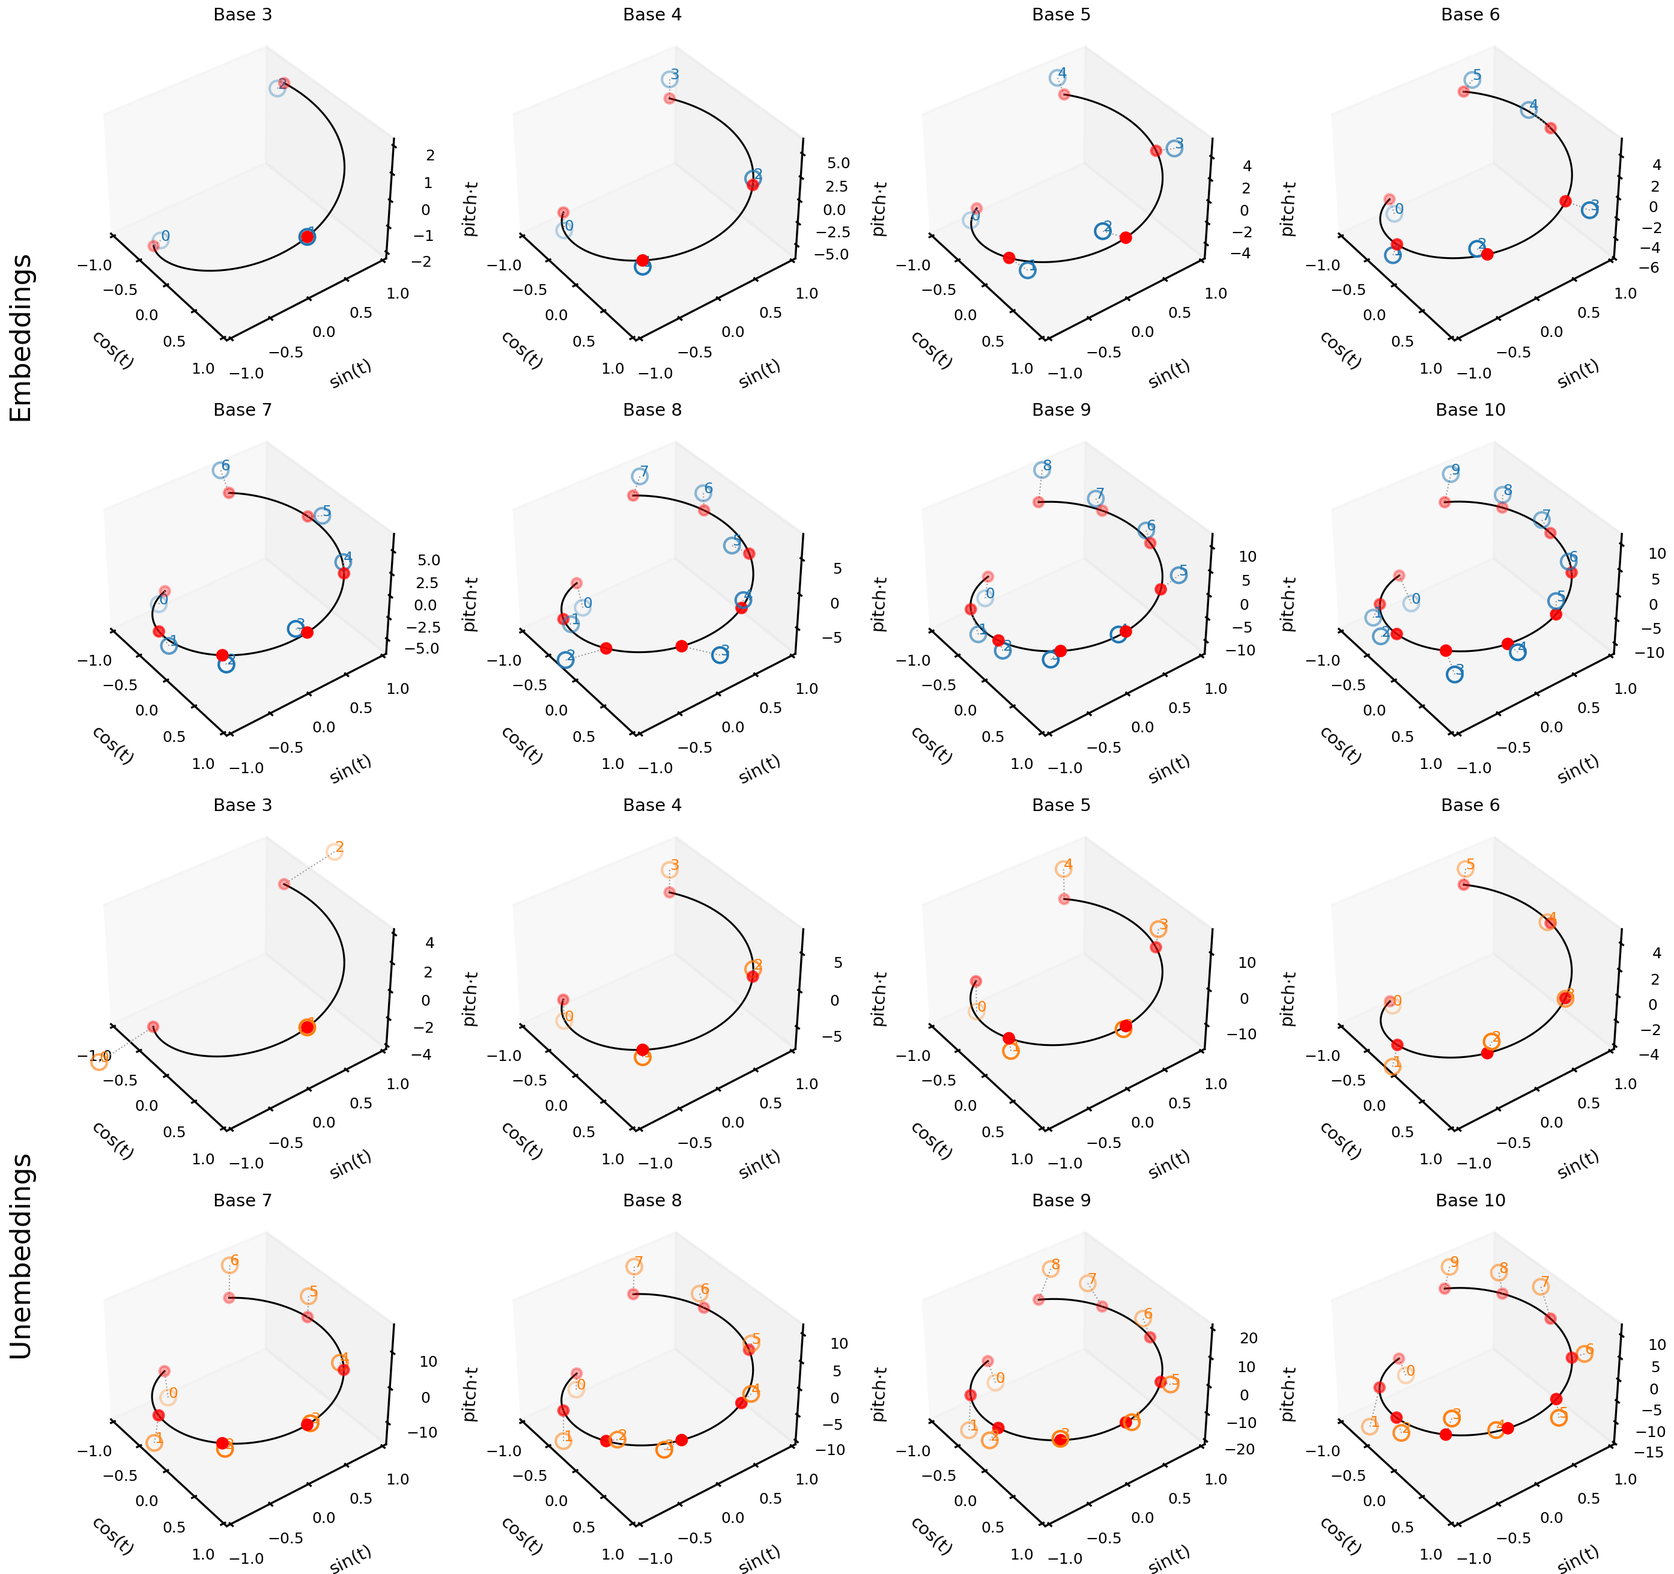
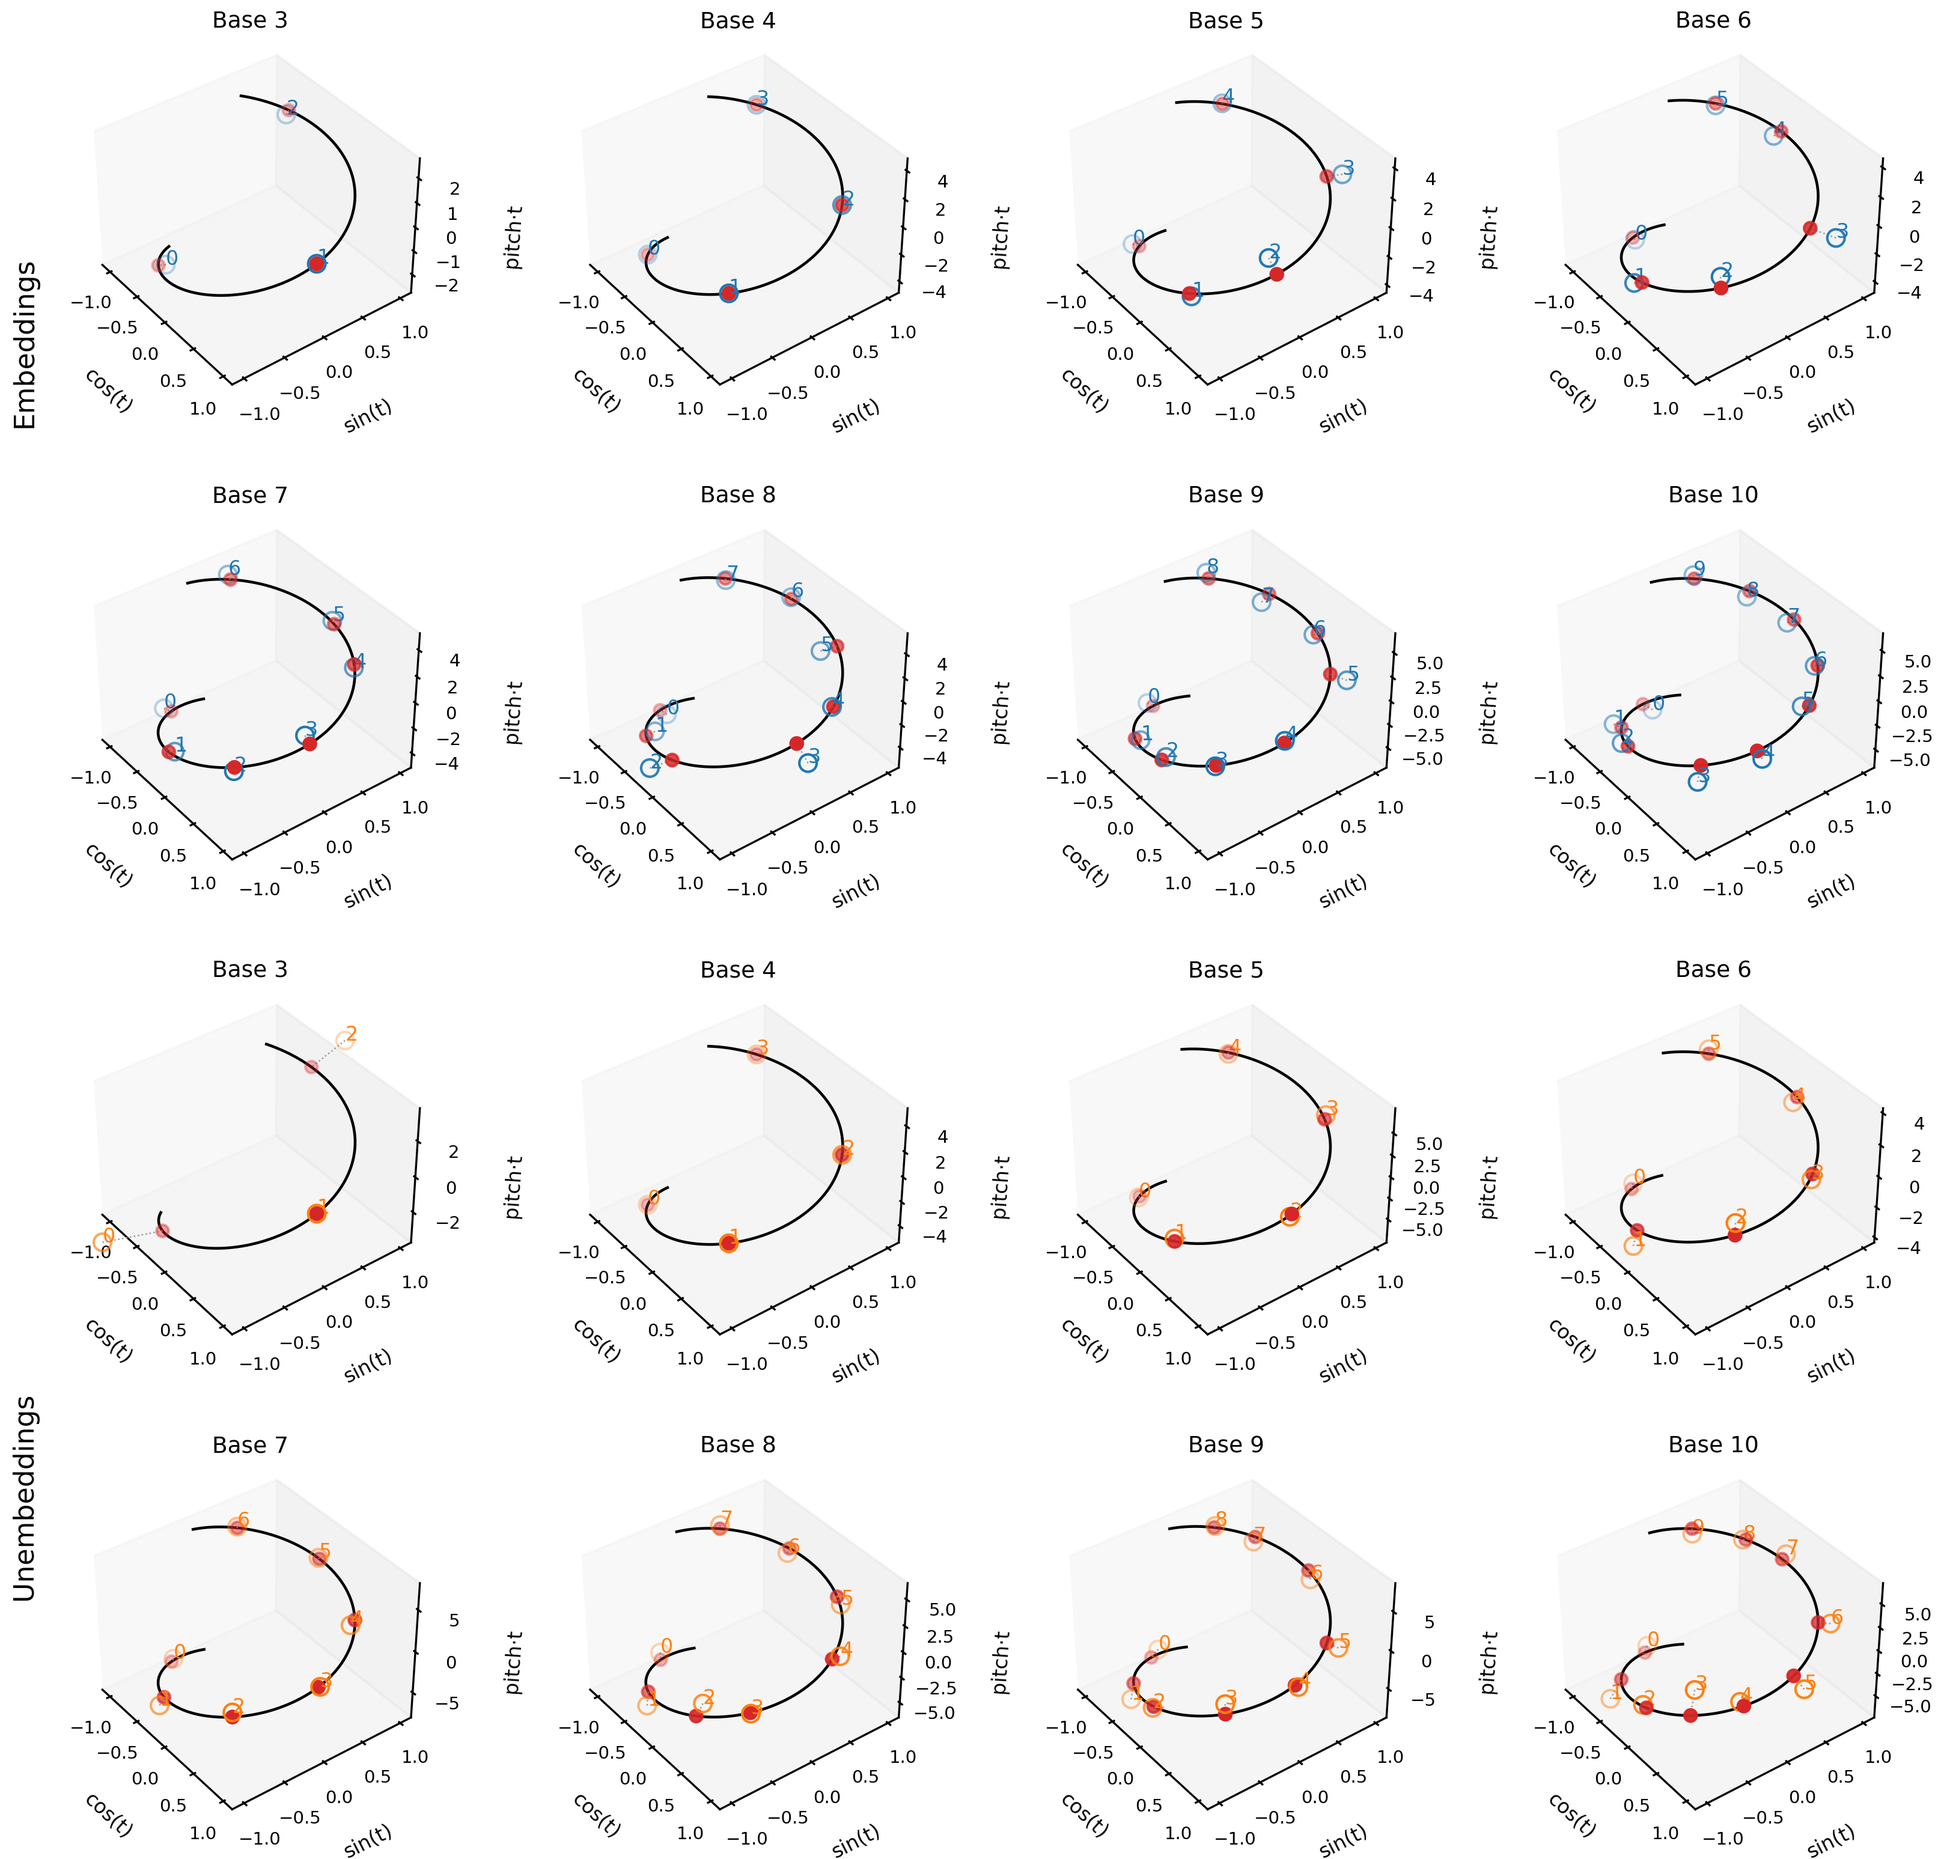
Updates to post

diff --git a/_posts/2025-10-03-addition-activations.md b/_posts/2025-10-03-addition-activations.md
@@ -1,23 +1,37 @@
 ---
 layout: post
-title: "Recurrent Networks Add Using a Helix"
+title: "RNNs Add Using a Helix"
 date: 2025-10-03
 mathjax: true
 snippet: "The first part in a series applying interpretability methods to my bachelor's thesis."
 tags: [Research]
 ---
 
-My bachelor's thesis at Princeton was an investigation of neural networks learning base addition---one of the simplest and most fundamental examples of symmetry.
-We found that, if taught to add using the right symmetries, even simple neural networks can achieve radical generalization, and that learnability is closely correlated with the symmetry used.
-I'm proud of and much enjoyed this project, enough that this past year my collaborators and I refactored it into a paper which we submitted for publication (currently under review; see [preprint](https://arxiv.org/pdf/2507.10678)).
-Though our paper provides interesting insight into how symmetries enable generalization, it did not answer a fundamental question: what does it mean for a neural network to "use a symmetry"; i.e., how is the symmetry represented by the network internally?
+The human brain still distinguishes itself from the most advanced artificial neural networks by its ability to radically generalize---to extrapolate far beyond the training distribution, in such a way that requires not just surface correlations but deeper understanding.
+This remarkable ability relies on the discovery of symmetries---forms of structure that remain invariant under transformation---one of the simplest and most fundamental examples of which is found in base addition.
+
+Using base addition as a case study, my bachelor's thesis at Princeton was an investigation of the inductive biases of artificial neural networks.
+We found that, if taught to add using the right symmetries, even simple recurrent networks (RNNs) can achieve radical generalization, and that learnability is closely correlated with the symmetry used.
+I'm proud of and much enjoyed this project, enough so that this past year my collaborators and I refactored it into a paper which we've submitted for publication (currently under review; see [preprint](https://arxiv.org/pdf/2507.10678)).
+
+Though our paper probes at how symmetries enable radical generalization, it did not seek to answer a fundamental question: what does it even mean for a neural network to "use a symmetry"?
+That is, to the extent that a neural network makes use of a symmetry, how is that symmetry represented and computed internally?
+In this post, I hope to make progress towards answering that question in the case of RNNs learning base addition; in particular, I find that RNNs represent numbers along a helix at both the beginning and end of their computation.
 
 
-### 1. Preliminaries
+### 1. Related Work
 
-#### 1.1. Training Recurrent Networks on Base Addition
+There is a fascinating area of research studying the representations of artificial neural networks, particularly in large language models (LLMs)---examples of LLM representations are as varied as refusal ([Arditi et al., 2024](https://proceedings.neurips.cc/paper_files/paper/2024/file/f545448535dfde4f9786555403ab7c49-Paper-Conference.pdf)), days of the week ([Engels et al., 2025](https://arxiv.org/pdf/2405.14860)), and even truth ([Marks & Tegmark, 2024](https://arxiv.org/pdf/2310.06824)).
+Inspirational to this project was a recent paper finding that LLMs represent the numbers 0-99 along a helix ([Kantamneni et al., 2025](https://arxiv.org/pdf/2502.00873)).
+Similarly, research has found that even small transformers represent numbers using a Fourier basis for numeric tasks such as modular addition ([Nanda et al., 2023](https://arxiv.org/pdf/2301.05217)) and multiplication ([Bai et al., 2025](https://arxiv.org/pdf/2510.00184)).
+In a more general framework, it appears that transformers use group representations to compute finite group composition ([Chughtai et al., 2023](https://proceedings.mlr.press/v202/chughtai23a/chughtai23a.pdf)).
 
-For base $b$, the problem of base addition is formulated as follows:
+
+### 2. Preliminaries
+
+#### 2.1. Training RNNs on Base Addition
+
+The problem of base addition in base $b$ is formulated as follows:
 Two multi-digit numbers are constructed as $n = (n_k, ..., n_1)$ and $m = (m_k, ..., m_1)$, composed of lists of $b$-dimensional one-hot-encoded digits ($n_i$ and $m_i$) ordered from most ($k$) to least (1) significant.
 As input, one digit from each number is presented, in this case from least to most significant, with special tokens denoting the (heldout) digits of the answer sequence $s = (s_k, ..., s_1)$.
 That is, the input sequence input $X$ is
@@ -26,27 +40,28 @@ $$
 X = (n_1, m_1, *, ..., n_k, m_k, *).
 $$
 
-The model is comprised of a single-layer RNN (viz., Elman Net) with input and hidden dimensions of $b$ and $4b$, respectively, followed by a linear layer with input and output dimensions of $4b$ and $b$, respectively.
-For each base $b \in [3:10]$, the model is trained to add 3-digit numbers, using the cross-entropy between the output logits and the answer sequence as the loss.
+For the purposes of this small study, I focus on the bases $b \in [3:10]$ and the standard carry function---see my preprint and Section 4.2 for discussion of carry functions.
+
+For base $b$, the model is comprised of a single-layer RNN (viz., Elman Net) with input and hidden dimensions of $b$ and $4b$, respectively, followed by a linear layer with input and output dimensions of $4b$ and $b$, respectively.
+A separate model for each base was trained to add 3-digit numbers, using the cross-entropy between the output logits and the answer sequence as the loss.
 Training progressed over 5,000 epochs over all 3-digit tuples ($n, m$), with a batch size of 32 and a learning rate of 0.005 using the Adam optimizer.
-After training, the models were evaluated on a subset of 6-digit numbers, achieving $\sim 1.0$ accuracy for each base.
+After training, the models were evaluated on a subset of 6-digit numbers, all achieving $\sim 1.0$ testing accuracy.
 
 
-#### 1.2. Helix Fitting Procedure
+#### 2.2. Helix Fitting Procedure
 
-Denote the RNN embeddings by $X_e \in \mathbb{R}^{b \times 4b}$ (note that these are given by the learned embedding matrix that linearly encodes the one-hot digits to the hidden space).
-As helix template, construct the basis $H \in \mathbb{R}^{b \times 3}$ with rows $[\cos(t_k), \sin(t_k), t_k]$, where $t_k = 2 \pi k / b$ for $k \in [b]$.
-The helical basis is fitted to the embeddings with least-squares, finding $B \in \mathbb{R}^{3 \times 4b}$ such that $X_e \approx H B$.
-An identical procedure is followed for the unembeddings $X_u \in \mathbb{R}^{b \times 4b}$ (these are given by the learned unembedding matrix that linearly decodes the logits from the hidden space).
+For each model, I extracted the RNN embeddings $X_e \in \mathbb{R}^{b \times 4b}$ (note that these are given by the learned embedding matrix that linearly encodes the one-hot digits to the hidden space).
+As helical basis, I constructed $H \in \mathbb{R}^{b \times 3}$ with rows $[\cos(t_k), \sin(t_k), t_k]$, where $t_k = 2 \pi k / b$ for $k \in [b]$, and then fitted $H$ to the embeddings with least-squares, finding $B \in \mathbb{R}^{3 \times 4b}$ such that $X_e \approx H B$.
+An identical procedure was followed for the unembeddings $X_u \in \mathbb{R}^{b \times 4b}$ (these are given by the learned unembedding matrix that linearly decodes the logits from the hidden space).
 
 
-### 2. Experiments
+### 3. Experiments
 
-#### 2.1. Helical Embeddings and Unembeddings
+#### 3.1. Helical Embeddings and Unembeddings
 
-We follow the training and fitting procedure described in Section 1 for bases 3 to 10.
-First, the figure below shows the helix fit for base 10---note the high quality of the fit, with with $\text{RMSE} = 0.214$ and $R^2 = 0.883$.
-The other helical fits are shown below; though they vary in quality, most of them are fairly convincing.
+After training and fitting as described in Section 2 for bases 3 to 10, I evaluated the quality of the helical fits for the embeddings and unembeddings.
+First, isolating a representative example, the figure below shows the helix fit for the base 10 embeddings---note its high quality, with $\text{RMSE} = 0.214$ and $R^2 = 0.883$.
+The other helical fits are shown below; they are all visually convincing.
 
 <figure class="figure-100">
     <img src="{{ '/assets/blog/2025-10-03-addition-activations/helix_embeddings_b10.png' | relative_url }}">
@@ -59,9 +74,10 @@ The other helical fits are shown below; though they vary in quality, most of the
 </figure>
 
 
-#### 2.2. Quality of Helix Fits
+#### 3.2. Quality of Helix Fits
 
-To quantitatively assess the quality of the helix fits, we compare to two baselines: (i) the first 3 principle components, which is a strong baseline given that the helix is a 1-dimensional manifold; and (ii) helix fits using random orderings (e.g., 0, 2, 1 for base 3), which probes the expressivity of the helix regardless if the ordering of digits along it is relevant to the network's computation.
+To quantitatively assess the quality of the helix fits, I compared to two baselines: (i) the first 3 principle components, which is a strong baseline given that the helix is a 1-dimensional manifold; and (ii) helix fits using random orderings (e.g., 0, 2, 1 for base 3), which probes the expressivity of the helix regardless of whether the ordering of digits along it is relevant to the network's computation.
+Across most bases, the helix in the canonical ordering (i.e., the proper ordering with this carry function; see Section 4.2 for more detail) separates itself above the randomly-ordered helices, and in many cases approaches (or nearly matches) the 3D PCA baseline.
 
 <figure class="figure-100">
     <img src="{{ '/assets/blog/2025-10-03-addition-activations/r2_analysis.png' | relative_url }}">
@@ -69,29 +85,26 @@ To quantitatively assess the quality of the helix fits, we compare to two baseli
 </figure>
 
 
-### 3. Discussion
+### 4. Discussion
 
-#### 3.1. RNNs Add Using a Helix
+#### 4.1. RNNs Add Using a Helix
 
 From the helix figures as well as the $R^2$ analysis, we can see that---for the most part---the helices provide an impressively good fit to not only the embeddings, but also the unembeddings.
 Together, this provides suggestive evidence that helical structure is important from beginning to end in the model's computation.
-This mirrors recent work finding that LLMs represent the numbers 0 through 100 in a helix ([Kantamneni et al., 2025](https://arxiv.org/pdf/2502.00873)).
+This mirrors recent work number helices in LLMs (see Section 1).
+Corroborated across architectures and even at model sizes this small, these findings suggests that helical structure may be the most compact representation of base addition with multiple digits---future work might study group representations of the group multi-digit base representation worked out in my thesis.
 
 
-#### 3.2. Future Directions
+#### 4.2. Future Directions
 
 There are a variety of future directions from this very preliminary first study, which I intend to follow-up on in the posts to come.
 
 1. **Extend to other carry functions:**
 In my thesis, I use group cohomology to formally construct base addition, and in the process reveal many alternative ways of carrying.
-This provides the setup for the rest of the paper, which analyzes inductive biases of neural networks in terms of the complexity of the different carry functions.
-In this post, I just focus on the standard carry, but I intend to replicate this for the other carry functions.
+This provides the setup for the rest of the paper, which analyzes inductive biases of neural networks in terms of the complexity of different carry functions.
+In this post, I just focus on the standard carry, but I intend to replicate this for other carry functions in bases 3 to 10.
 If they too display helices according to their particular systems, this provides further evidence that the helices are causally relevant to computation.
 
 2. **Causal analysis:**
-Going beyond representation to causation is an important step in interpretability, and it would be interesting to do so here as well---activation patching would be a first-step to look into.
-
-<!-- 3. **Interpret the weights:**
-sdfas
-
-[isolating the carry function eg by solving for a linear direction that best separates activations which will have non-zero carry vs those which do not] -->
+Going beyond representation to causation is an important step in interpretability, and it would be interesting to do so here as well---activation patching of the helix embeddings would be a first-step to look into.
+In particular, this might help to isolate how carrying from is represented---e.g., by ablating along the helix's linear component.
